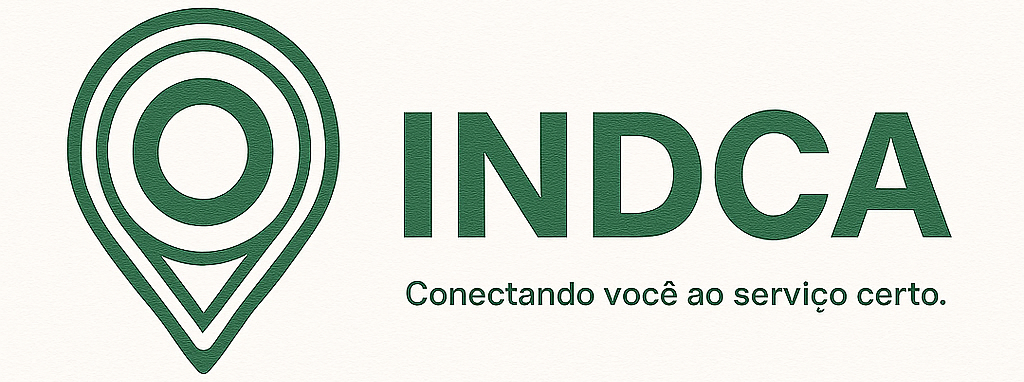
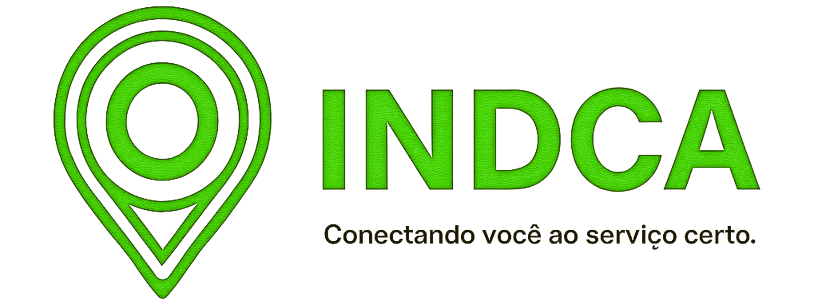
sobreNósOrto

Changed region(s): [[0.0611, 0.0, 0.3362, 0.9738], [0.3667, 0.2656, 0.9474, 0.6492], [0.3973, 0.7377, 0.9169, 0.7967]]

diff --git a/cadastroPrestador.html b/cadastroPrestador.html
@@ -47,10 +47,10 @@
     <!-- Navbar & Hero Start -->
     <div class="container-fluid position-relative p-0">
         <nav class="navbar navbar-expand-lg navbar-light px-4 px-lg-5 py-3 py-lg-0">
-            <a href="" class="navbar-brand p-0">
-                <h1 class="text-primary m-0"><i class="fa fa-map-marker-alt me-3"></i>Cadastre sua Empresa</h1>
-                <!-- <img src="img/logo.png" alt="Logo"> -->
-            </a>
+          <a href="#" class="navbar-brand p-0">
+            <img src="./img/indca.png" alt="logo" class="logo-nav">
+            <!-- <h1 class="text-primary m-0"><i class="fa fa-map-marker-alt me-3"></i>IN.D.C.A</h1> -->
+          </a>
             <button class="navbar-toggler" type="button" data-bs-toggle="collapse" data-bs-target="#navbarCollapse">
                 <span class="fa fa-bars"></span>
             </button>

diff --git a/contact.html b/contact.html
@@ -47,10 +47,10 @@
     <!-- Navbar & Hero Start -->
     <div class="container-fluid position-relative p-0">
         <nav class="navbar navbar-expand-lg navbar-light px-4 px-lg-5 py-3 py-lg-0">
-            <a href="" class="navbar-brand p-0">
-                <h1 class="text-primary m-0"><i class="fa fa-map-marker-alt me-3"></i>Cadastre sua Empresa</h1>
-                <!-- <img src="img/logo.png" alt="Logo"> -->
-            </a>
+        <a href="#" class="navbar-brand p-0">
+            <img src="./img/indca.png" alt="logo" class="logo-nav">
+            <!-- <h1 class="text-primary m-0"><i class="fa fa-map-marker-alt me-3"></i>IN.D.C.A</h1> -->
+        </a>
             <button class="navbar-toggler" type="button" data-bs-toggle="collapse" data-bs-target="#navbarCollapse">
                 <span class="fa fa-bars"></span>
             </button>

diff --git a/cadastroCliente.html b/cadastroCliente.html
@@ -48,9 +48,9 @@
     <!-- Navbar & Hero Start -->
     <div class="container-fluid position-relative p-0">
         <nav class="navbar navbar-expand-lg navbar-light px-4 px-lg-5 py-3 py-lg-0">
-            <a href="" class="navbar-brand p-0">
-                <h1 class="text-primary m-0"><i class="fa fa-map-marker-alt me-3"></i>Conecte-se a Empresa</h1>
-                <!-- <img src="img/logo.png" alt="Logo"> -->
+            <a href="#" class="navbar-brand p-0">
+                <img src="./img/indca.png" alt="logo" class="logo-nav">
+                <!-- <h1 class="text-primary m-0"><i class="fa fa-map-marker-alt me-3"></i>IN.D.C.A</h1> -->
             </a>
             <button class="navbar-toggler" type="button" data-bs-toggle="collapse" data-bs-target="#navbarCollapse">
                 <span class="fa fa-bars"></span>

diff --git a/about.html b/about.html
@@ -45,9 +45,9 @@
     <!-- Navbar & Hero Start -->
     <div class="container-fluid position-relative p-0">
         <nav class="navbar navbar-expand-lg navbar-light px-4 px-lg-5 py-3 py-lg-0">
-            <a href="" class="navbar-brand p-0">
-                <h1 class="text-primary m-0"><i class="fa fa-map-marker-alt me-3"></i>I.N.D.C.A</h1>
-                <!-- <img src="img/logo.png" alt="Logo"> -->
+            <a href="#" class="navbar-brand p-0">
+              <img src="./img/indca.png" alt="logo" class="logo-nav">
+              <!-- <h1 class="text-primary m-0"><i class="fa fa-map-marker-alt me-3"></i>IN.D.C.A</h1> -->
             </a>
             <button class="navbar-toggler" type="button" data-bs-toggle="collapse" data-bs-target="#navbarCollapse">
                 <span class="fa fa-bars"></span>

diff --git a/prestadorAdm.html b/prestadorAdm.html
@@ -54,8 +54,9 @@
     <!-- Navbar & Hero Start -->
     <div class="container-fluid position-relative p-0">
         <nav class="navbar navbar-expand-lg navbar-light px-4 px-lg-5 py-3 py-lg-0">
-            <a href="" class="navbar-brand p-0">
-                <h1 class="text-primary m-0"id="nomeEmpresaTitulo"><i class="fa fa-map-marker-alt me-3"></i></h1>
+            <a href="#" class="navbar-brand p-0">
+              <img src="./img/indca.png" alt="logo" class="logo-nav">
+              <!-- <h1 class="text-primary m-0"><i class="fa fa-map-marker-alt me-3"></i>IN.D.C.A</h1> -->
             </a>
             <button class="navbar-toggler" type="button" data-bs-toggle="collapse" data-bs-target="#navbarCollapse">
                 <span class="fa fa-bars"></span>

diff --git a/pagePerfil.html b/pagePerfil.html
@@ -56,7 +56,8 @@
   <div class="container-fluid position-relative p-0">
     <nav class="navbar navbar-expand-lg navbar-light px-4 px-lg-5 py-3 py-lg-0">
       <a href="#" class="navbar-brand p-0">
-        <h1 class="text-primary m-0"><i class="fa fa-map-marker-alt me-3"></i>I.N.D.C.A</h1>
+          <img src="./img/indca.png" alt="logo" class="logo-nav">
+        <!-- <h1 class="text-primary m-0"><i class="fa fa-map-marker-alt me-3"></i>IN.D.C.A</h1> -->
       </a>
       <button class="navbar-toggler" type="button" data-bs-toggle="collapse" data-bs-target="#navbarCollapse">
         <span class="fa fa-bars"></span>

diff --git a/index.html b/index.html
@@ -132,7 +132,8 @@
   <div class="container-fluid position-relative p-0">
     <nav class="navbar navbar-expand-lg navbar-light px-4 px-lg-5 py-3 py-lg-0">
       <a href="#" class="navbar-brand p-0">
-        <h1 class="text-primary m-0"><i class="fa fa-map-marker-alt me-3"></i>IN.D.C.A</h1>
+        <img src="./img/indca.png" alt="logo" class="logo-nav">
+        <!-- <h1 class="text-primary m-0"><i class="fa fa-map-marker-alt me-3"></i>IN.D.C.A</h1> -->
       </a>
       <button class="navbar-toggler" type="button" data-bs-toggle="collapse" data-bs-target="#navbarCollapse">
         <span class="fa fa-bars"></span>

diff --git a/login.html b/login.html
@@ -48,7 +48,8 @@
     <div class="container-fluid position-relative p-0">
     <nav class="navbar navbar-expand-lg navbar-light px-4 px-lg-5 py-3 py-lg-0">
       <a href="#" class="navbar-brand p-0">
-        <h1 class="text-primary m-0"><i class="fa fa-map-marker-alt me-3"></i>IN.D.C.A</h1>
+        <img src="./img/indca.png" alt="logo" class="logo-nav">
+        <!-- <h1 class="text-primary m-0"><i class="fa fa-map-marker-alt me-3"></i>IN.D.C.A</h1> -->
       </a>
       <button class="navbar-toggler" type="button" data-bs-toggle="collapse" data-bs-target="#navbarCollapse">
         <span class="fa fa-bars"></span>

diff --git a/css/style.css b/css/style.css
@@ -6,6 +6,11 @@
     --dark: #14141F;
 }
 
+.logo-nav{
+    width: 195px;
+    height: 70px;
+}
+
 .fw-medium {
     font-weight: 600 !important;
 }
